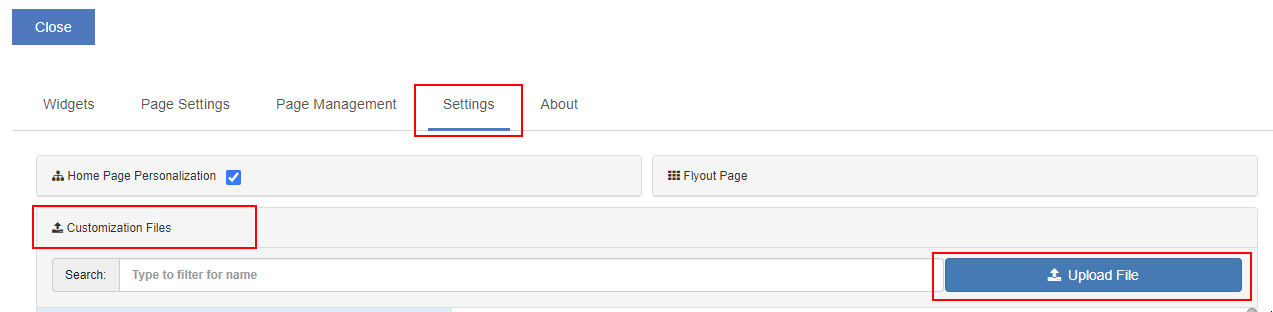
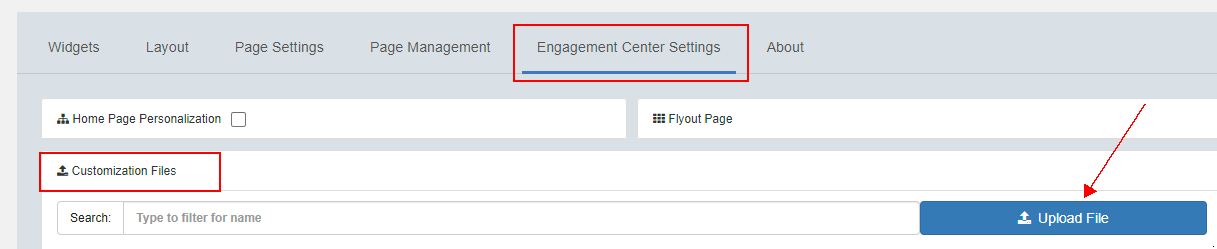
Highlights widgets

diff --git a/docs/assets/boards/hybrid/custom.js b/docs/assets/boards/hybrid/custom.js
@@ -3,54 +3,82 @@
  * TIMETOACT Web CMS Extension for IBM Connections (XCC) - {custom}.js
  */
 (function(W) {
+  function HuddoBoards() {
+    function render(container$, widgetData) {
+      var data = {};
+      if (widgetData.communitiesContentString) {
+        var array = JSON.parse(widgetData.communitiesContentString || '{}') || [];
+        data = array.pop();
+      }
+
+      var source;
+      var frame = document.createElement('iframe');
+      var boardsURL = 'https://boards.huddo.com/auth/connections/' + btoa(location.hostname);
+      var url = boardsURL;
+      if (data.type==='community') {
+        url = boardsURL+'?redirect_to=/group/connections/' + data.uid+'&nav=false';
+        source = {
+          resourceType: 'community',
+          resourceId: data.uid,
+          resourceName: data.communityName,
+          widgetInstanceId: '' + widgetData.id,
+        };
+      }
+
+      window.addEventListener('message', function (event) {
+        // wrong window asked
+        if (event.source !== frame.contentWindow) return;
+        if (event.data === 'appReady') {
+          var user = window.widgetUserInfo;
+          frame.contentWindow.postMessage({
+            context: { highlights: true },
+            source,
+            user,
+            extraContent: {
+              canPersonalize: user.canPersonalize,
+            },
+          }, '*');
+        }
+      }, false);
+      
+      frame.src = url;
+      frame.title = 'Huddo Boards';
+      container$.append(frame);
+
+      frame.style.border = "0 none";
+      frame.style.width = "100%",
+      frame.style.height = (widgetData.height==='auto' ? null : widgetData.height) || '600px';
+
+      // fix the styling above us
+      frame.parentElement.parentElement.style.margin = 0;
+      frame.parentElement.parentElement.parentElement.style.height = 'auto';
+    }
+
+    function editConfig(container$, widgetData) {
+      return [
+        XCC.U.createTextInputOnTheFly('Title', widgetData.title, 'title'),
+        XCC.U.createTextInputOnTheFly('Height', widgetData.height, 'height'),
+      ];
+    }
+
+    function saveConfig(container$, widgetData) {
+      widgetData.title = container$.find('input[name=title]').val();
+      widgetData.height = container$.find('input[name=height]').val();
+    }
+
+    XCC.W.registerCustomWidget({
+      id: 'boards',
+      name: 'Huddo Boards',
+      icon: 'th-large',
+      createCustomWidget: render,
+      customEditor: editConfig,
+      synchUiToWidgetDataObject: saveConfig,
+    });
+  }
+
   XCC.X = XCC.X || {
     init: function() {
-      function render(container$, widgetData) {
-        var data = {};
-        if (widgetData.communitiesContentString) {
-          var array = JSON.parse(widgetData.communitiesContentString || '{}') || [];
-          data = array.pop();
-        }
-
-        var frame = document.createElement('iframe');
-        var boardsURL = 'https://boards.huddo.com/auth/connections/' + btoa(location.hostname);
-        if (data.type==='community')
-          frame.src = boardsURL+'?redirect_to=/group/connections/' + data.uid+'&nav=false';
-        else
-          frame.src = boardsURL;
-        
-        frame.title = 'Huddo Boards';
-        container$.append(frame);
-
-        frame.style.border = "0 none";
-        frame.style.width = "100%",
-        frame.style.height = (widgetData.height==='auto' ? null : widgetData.height) || '600px';
-
-        // fix the styling above us
-        frame.parentElement.parentElement.style.margin = 0;
-        frame.parentElement.parentElement.parentElement.style.height = 'auto';
-      }
-
-      function editConfig(container$, widgetData) {
-        return [
-          XCC.U.createTextInputOnTheFly('Title', widgetData.title, 'title'),
-          XCC.U.createTextInputOnTheFly('Height', widgetData.height, 'height'),
-        ];
-      }
-
-      function saveConfig(container, widget) {
-        widget.title = container.find('input[name=title]').val();
-        widget.height = container.find('input[name=height]').val();
-      }
-
-      XCC.W.registerCustomWidget({
-        id: 'boards',
-        name: 'Huddo Boards',
-        icon: 'th-large',
-        createCustomWidget: render,
-        customEditor: editConfig,
-        synchUiTowidgetDataObject: saveConfig,
-      });
+      HuddoBoards();
     },
   };
 })(window);

diff --git a/docs/assets/boards/cp/custom.js b/docs/assets/boards/cp/custom.js
@@ -2,55 +2,83 @@
 /**
  * TIMETOACT Web CMS Extension for IBM Connections (XCC) - {custom}.js
  */
-(function(W) {
+ (function(W) {
+  function HuddoBoards() {
+    function render(container$, widgetData) {
+      var data = {};
+      if (widgetData.communitiesContentString) {
+        var array = JSON.parse(widgetData.communitiesContentString || '{}') || [];
+        data = array.pop();
+      }
+
+      var source;
+      var frame = document.createElement('iframe');
+      var boardsURL = '/boards/auth/connections';
+      var url = boardsURL;
+      if (data.type==='community') {
+        url = boardsURL+'?redirect_to=/group/connections/' + data.uid+'&nav=false';
+        source = {
+          resourceType: 'community',
+          resourceId: data.uid,
+          resourceName: data.communityName,
+          widgetInstanceId: '' + widgetData.id,
+        };
+      }
+
+      window.addEventListener('message', function (event) {
+        // wrong window asked
+        if (event.source !== frame.contentWindow) return;
+        if (event.data === 'appReady') {
+          var user = window.widgetUserInfo;
+          frame.contentWindow.postMessage({
+            context: { highlights: true },
+            source,
+            user,
+            extraContent: {
+              canPersonalize: user.canPersonalize,
+            },
+          }, '*');
+        }
+      }, false);
+      
+      frame.src = url;
+      frame.title = 'Huddo Boards';
+      container$.append(frame);
+
+      frame.style.border = "0 none";
+      frame.style.width = "100%",
+      frame.style.height = (widgetData.height==='auto' ? null : widgetData.height) || '600px';
+
+      // fix the styling above us
+      frame.parentElement.parentElement.style.margin = 0;
+      frame.parentElement.parentElement.parentElement.style.height = 'auto';
+    }
+
+    function editConfig(container$, widgetData) {
+      return [
+        XCC.U.createTextInputOnTheFly('Title', widgetData.title, 'title'),
+        XCC.U.createTextInputOnTheFly('Height', widgetData.height, 'height'),
+      ];
+    }
+
+    function saveConfig(container$, widgetData) {
+      widgetData.title = container$.find('input[name=title]').val();
+      widgetData.height = container$.find('input[name=height]').val();
+    }
+
+    XCC.W.registerCustomWidget({
+      id: 'boards',
+      name: 'Huddo Boards',
+      icon: 'th-large',
+      createCustomWidget: render,
+      customEditor: editConfig,
+      synchUiToWidgetDataObject: saveConfig,
+    });
+  }
+
   XCC.X = XCC.X || {
     init: function() {
-      function render(container$, widgetData) {
-        var data = {};
-        if (widgetData.communitiesContentString) {
-          var array = JSON.parse(widgetData.communitiesContentString || '{}') || [];
-          data = array.pop();
-        }
-
-        var frame = document.createElement('iframe');
-        var boardsURL = '/boards/auth/connections';
-        if (data.type==='community')
-          frame.src = boardsURL+'?redirect_to=/group/connections/' + data.uid+'&nav=false';
-        else
-          frame.src = boardsURL;
-        
-        frame.title = 'Huddo Boards';
-        container$.append(frame);
-
-        frame.style.border = "0 none";
-        frame.style.width = "100%",
-        frame.style.height = (widgetData.height==='auto' ? null : widgetData.height) || '600px';
-
-        // fix the styling above us
-        frame.parentElement.parentElement.style.margin = 0;
-        frame.parentElement.parentElement.parentElement.style.height = 'auto';
-      }
-
-      function editConfig(container$, widgetData) {
-        return [
-          XCC.U.createTextInputOnTheFly('Title', widgetData.title, 'title'),
-          XCC.U.createTextInputOnTheFly('Height', widgetData.height, 'height'),
-        ];
-      }
-
-      function saveConfig(container, widget) {
-        widget.title = container.find('input[name=title]').val();
-        widget.height = container.find('input[name=height]').val();
-      }
-
-      XCC.W.registerCustomWidget({
-        id: 'boards',
-        name: 'Huddo Boards',
-        icon: 'th-large',
-        createCustomWidget: render,
-        customEditor: editConfig,
-        synchUiTowidgetDataObject: saveConfig,
-      });
+      HuddoBoards();
     },
   };
 })(window);

diff --git a/docs/boards/connections/widgets-on-prem.md b/docs/boards/connections/widgets-on-prem.md
@@ -92,17 +92,19 @@ Basic instructions for adding Huddo Boards Docker widgets into HCL Connections o
 
 ---
 
-### ICEC (Community Highlights)
+### CEC (Community Highlights)
 
-![Example](/assets/connections/highlights-communityboards.png)
+Huddo Boards integrates with Connections Engagement Center
+
+![Example](/assets/connections/highlights-boards.png)
 
 1. Download the Boards [CP widget definition file](/assets/boards/cp/custom.js)
 
-1. Open the ICEC (XCC) main admin page
+1. Open the CEC (XCC) main admin page
 
       i.e. `https://connections.company.com/xcc/main`
 
-1. Click `Customize`, `Settings`, expand `Customization Files` & click `Upload File`
+1. Click `Customize`, `Engagement Center Settings`, expand `Customization Files` & click `Upload File`
 
      ![Example](/assets/connections/highlights-fileupload.png)
 
@@ -110,19 +112,15 @@ Basic instructions for adding Huddo Boards Docker widgets into HCL Connections o
 
 1. Select the `custom.js` downloaded previously
 
-     > Note: the file must have this name. If you already have a `custom.js` file you must manually merge the contents of the `init` function
+     > Note: the file must have this name. If you already have a `custom.js` file you must manually merge the contents. Copy the `HuddoBoards()` function and make sure to call it in `init()`
 
 1. To validate:
 
       1. Open the `Highlights` application in a Community
-      1. Click `Customize` & then `Create Widget`
+      1. Click `Customize`, `Widgets` and `Huddo Boards`
 
-         ![Example](/assets/connections/highlights-create.png)
+         ![Example](/assets/connections/highlights-add-boards.png)
       
-      1. Select `Huddo Boards` from the menu and enter the ID: `CommunityBoards`
+      1. The Boards Highlights widget should now appear at the end of the page
 
-         ![Example](/assets/connections/highlights-def-community.png)
-
-      1. Click `Create`. The Boards app should now appear
-
-         ![Example](/assets/connections/highlights-communityboards.png)
+         ![Example](/assets/connections/highlights-boards.png)

diff --git a/docs/boards/connections/widgets-hybrid.md b/docs/boards/connections/widgets-hybrid.md
@@ -87,17 +87,19 @@ Required for HCL Connections 6.0 CR1 onwards:
 
 ---
 
-### ICEC (Community Highlights)
+### CEC (Community Highlights)
 
-![Example](/assets/connections/highlights-communityboards.png)
+Huddo Boards integrates with Connections Engagement Center
+
+![Example](/assets/connections/highlights-boards.png)
 
 1. Download the Boards [Hybrid widget definition file](/assets/boards/hybrid/custom.js)
 
-1. Open the ICEC (XCC) main admin page
+1. Open the CEC (XCC) main admin page
 
       i.e. `https://connections.company.com/xcc/main`
 
-1. Click `Customize`, `Settings`, expand `Customization Files` & click `Upload File`
+1. Click `Customize`, `Engagement Center Settings`, expand `Customization Files` & click `Upload File`
 
      ![Example](/assets/connections/highlights-fileupload.png)
 
@@ -105,19 +107,15 @@ Required for HCL Connections 6.0 CR1 onwards:
 
 1. Select the `custom.js` downloaded previously
 
-     > Note: the file must have this name. If you already have a `custom.js` file you must manually merge the contents of the `init` function
+     > Note: the file must have this name. If you already have a `custom.js` file you must manually merge the contents. Copy the `HuddoBoards()` function and make sure to call it in `init()`
 
 1. To validate:
 
       1. Open the `Highlights` application in a Community
-      1. Click `Customize` & then `Create Widget`
+      1. Click `Customize`, `Widgets` and `Huddo Boards`
 
-         ![Example](/assets/connections/highlights-create.png)
+         ![Example](/assets/connections/highlights-add-boards.png)
       
-      1. Select `Huddo Boards` from the menu and enter the ID: `CommunityBoards`
+      1. The Boards Highlights widget should now appear at the end of the page
 
-         ![Example](/assets/connections/highlights-def-community.png)
-
-      1. Click `Create`. The Boards app should now appear
-
-         ![Example](/assets/connections/highlights-communityboards.png)
+         ![Example](/assets/connections/highlights-boards.png)
